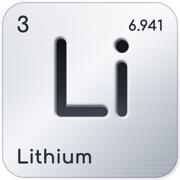
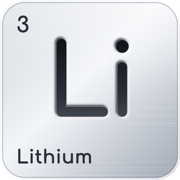
Add files via upload

Changed region(s): [[0.6944, 0.0833, 0.9167, 0.1944]]

diff --git a/index.html b/index.html
@@ -175,7 +175,7 @@ footer a:hover{text-decoration:underline}
 
 <header class="nav">
   <div class="wrap">
-    <a class="brand" href="#top"><svg class="mark" viewBox="0 0 200 200" aria-hidden="true"><defs><linearGradient id="lmbg" x1="0" y1="0" x2="1" y2="1"><stop offset="0" stop-color="#c9ced6"/><stop offset=".45" stop-color="#f3f5f8"/><stop offset=".55" stop-color="#e6e9ee"/><stop offset="1" stop-color="#9ea6b2"/></linearGradient><linearGradient id="lmink" x1="0" y1="0" x2="0" y2="1"><stop offset="0" stop-color="#0b0e13"/><stop offset=".6" stop-color="#2a2f38"/><stop offset="1" stop-color="#5a616c"/></linearGradient><linearGradient id="lmgl" x1="0" y1="0" x2="0" y2="1"><stop offset="0" stop-color="#fff" stop-opacity=".55"/><stop offset="1" stop-color="#fff" stop-opacity="0"/></linearGradient><clipPath id="lmcp"><rect width="200" height="200" rx="26"/></clipPath><filter id="lmbl" x="-20%" y="-20%" width="140%" height="140%"><feGaussianBlur stdDeviation="1.2"/></filter></defs><g clip-path="url(#lmcp)"><rect width="200" height="200" fill="url(#lmbg)"/><line x1="0" y1="1.0" x2="200" y2="1.0" stroke="#fff" stroke-opacity="0.020" stroke-width="0.40"/><line x1="0" y1="3.9" x2="200" y2="3.9" stroke="#fff" stroke-opacity="0.137" stroke-width="0.73"/><line x1="0" y1="6.8" x2="200" y2="6.8" stroke="#fff" stroke-opacity="0.087" stroke-width="1.07"/><line x1="0" y1="9.7" x2="200" y2="9.7" stroke="#fff" stroke-opacity="0.037" stroke-width="0.40"/><line x1="0" y1="12.6" x2="200" y2="12.6" stroke="#fff" stroke-opacity="0.153" stroke-width="0.73"/><line x1="0" y1="15.5" x2="200" y2="15.5" stroke="#fff" stroke-opacity="0.103" stroke-width="1.07"/><line x1="0" y1="18.4" x2="200" y2="18.4" stroke="#fff" stroke-opacity="0.053" stroke-width="0.40"/><line x1="0" y1="21.3" x2="200" y2="21.3" stroke="#fff" stroke-opacity="0.170" stroke-width="0.73"/><line x1="0" y1="24.2" x2="200" y2="24.2" stroke="#fff" stroke-opacity="0.120" stroke-width="1.07"/><line x1="0" y1="27.1" x2="200" y2="27.1" stroke="#fff" stroke-opacity="0.070" stroke-width="0.40"/><line x1="0" y1="30.0" x2="200" y2="30.0" stroke="#fff" stroke-opacity="0.020" stroke-width="0.73"/><line x1="0" y1="32.9" x2="200" y2="32.9" stroke="#fff" stroke-opacity="0.137" stroke-width="1.07"/><line x1="0" y1="35.8" x2="200" y2="35.8" stroke="#fff" stroke-opacity="0.087" stroke-width="0.40"/><line x1="0" y1="38.7" x2="200" y2="38.7" stroke="#fff" stroke-opacity="0.037" stroke-width="0.73"/><line x1="0" y1="41.6" x2="200" y2="41.6" stroke="#fff" stroke-opacity="0.153" stroke-width="1.07"/><line x1="0" y1="44.5" x2="200" y2="44.5" stroke="#fff" stroke-opacity="0.103" stroke-width="0.40"/><line x1="0" y1="47.4" x2="200" y2="47.4" stroke="#fff" stroke-opacity="0.053" stroke-width="0.73"/><line x1="0" y1="50.3" x2="200" y2="50.3" stroke="#fff" stroke-opacity="0.170" stroke-width="1.07"/><line x1="0" y1="53.2" x2="200" y2="53.2" stroke="#fff" stroke-opacity="0.120" stroke-width="0.40"/><line x1="0" y1="56.1" x2="200" y2="56.1" stroke="#fff" stroke-opacity="0.070" stroke-width="0.73"/><line x1="0" y1="59.0" x2="200" y2="59.0" stroke="#fff" stroke-opacity="0.020" stroke-width="1.07"/><line x1="0" y1="61.9" x2="200" y2="61.9" stroke="#fff" stroke-opacity="0.137" stroke-width="0.40"/><line x1="0" y1="64.8" x2="200" y2="64.8" stroke="#fff" stroke-opacity="0.087" stroke-width="0.73"/><line x1="0" y1="67.7" x2="200" y2="67.7" stroke="#fff" stroke-opacity="0.037" stroke-width="1.07"/><line x1="0" y1="70.6" x2="200" y2="70.6" stroke="#fff" stroke-opacity="0.153" stroke-width="0.40"/><line x1="0" y1="73.5" x2="200" y2="73.5" stroke="#fff" stroke-opacity="0.103" stroke-width="0.73"/><line x1="0" y1="76.4" x2="200" y2="76.4" stroke="#fff" stroke-opacity="0.053" stroke-width="1.07"/><line x1="0" y1="79.3" x2="200" y2="79.3" stroke="#fff" stroke-opacity="0.170" stroke-width="0.40"/><line x1="0" y1="82.2" x2="200" y2="82.2" stroke="#fff" stroke-opacity="0.120" stroke-width="0.73"/><line x1="0" y1="85.1" x2="200" y2="85.1" stroke="#fff" stroke-opacity="0.070" stroke-width="1.07"/><line x1="0" y1="88.0" x2="200" y2="88.0" stroke="#fff" stroke-opacity="0.020" stroke-width="0.40"/><line x1="0" y1="90.9" x2="200" y2="90.9" stroke="#fff" stroke-opacity="0.137" stroke-width="0.73"/><line x1="0" y1="93.8" x2="200" y2="93.8" stroke="#fff" stroke-opacity="0.087" stroke-width="1.07"/><line x1="0" y1="96.7" x2="200" y2="96.7" stroke="#fff" stroke-opacity="0.037" stroke-width="0.40"/><line x1="0" y1="99.6" x2="200" y2="99.6" stroke="#fff" stroke-opacity="0.153" stroke-width="0.73"/><line x1="0" y1="102.5" x2="200" y2="102.5" stroke="#fff" stroke-opacity="0.103" stroke-width="1.07"/><line x1="0" y1="105.4" x2="200" y2="105.4" stroke="#fff" stroke-opacity="0.053" stroke-width="0.40"/><line x1="0" y1="108.3" x2="200" y2="108.3" stroke="#fff" stroke-opacity="0.170" stroke-width="0.73"/><line x1="0" y1="111.2" x2="200" y2="111.2" stroke="#fff" stroke-opacity="0.120" stroke-width="1.07"/><line x1="0" y1="114.1" x2="200" y2="114.1" stroke="#fff" stroke-opacity="0.070" stroke-width="0.40"/><line x1="0" y1="117.0" x2="200" y2="117.0" stroke="#fff" stroke-opacity="0.020" stroke-width="0.73"/><line x1="0" y1="119.9" x2="200" y2="119.9" stroke="#fff" stroke-opacity="0.137" stroke-width="1.07"/><line x1="0" y1="122.8" x2="200" y2="122.8" stroke="#fff" stroke-opacity="0.087" stroke-width="0.40"/><line x1="0" y1="125.7" x2="200" y2="125.7" stroke="#fff" stroke-opacity="0.037" stroke-width="0.73"/><line x1="0" y1="128.6" x2="200" y2="128.6" stroke="#fff" stroke-opacity="0.153" stroke-width="1.07"/><line x1="0" y1="131.5" x2="200" y2="131.5" stroke="#fff" stroke-opacity="0.103" stroke-width="0.40"/><line x1="0" y1="134.4" x2="200" y2="134.4" stroke="#fff" stroke-opacity="0.053" stroke-width="0.73"/><line x1="0" y1="137.3" x2="200" y2="137.3" stroke="#fff" stroke-opacity="0.170" stroke-width="1.07"/><line x1="0" y1="140.2" x2="200" y2="140.2" stroke="#fff" stroke-opacity="0.120" stroke-width="0.40"/><line x1="0" y1="143.1" x2="200" y2="143.1" stroke="#fff" stroke-opacity="0.070" stroke-width="0.73"/><line x1="0" y1="146.0" x2="200" y2="146.0" stroke="#fff" stroke-opacity="0.020" stroke-width="1.07"/><line x1="0" y1="148.9" x2="200" y2="148.9" stroke="#fff" stroke-opacity="0.137" stroke-width="0.40"/><line x1="0" y1="151.8" x2="200" y2="151.8" stroke="#fff" stroke-opacity="0.087" stroke-width="0.73"/><line x1="0" y1="154.7" x2="200" y2="154.7" stroke="#fff" stroke-opacity="0.037" stroke-width="1.07"/><line x1="0" y1="157.6" x2="200" y2="157.6" stroke="#fff" stroke-opacity="0.153" stroke-width="0.40"/><line x1="0" y1="160.5" x2="200" y2="160.5" stroke="#fff" stroke-opacity="0.103" stroke-width="0.73"/><line x1="0" y1="163.4" x2="200" y2="163.4" stroke="#fff" stroke-opacity="0.053" stroke-width="1.07"/><line x1="0" y1="166.3" x2="200" y2="166.3" stroke="#fff" stroke-opacity="0.170" stroke-width="0.40"/><line x1="0" y1="169.2" x2="200" y2="169.2" stroke="#fff" stroke-opacity="0.120" stroke-width="0.73"/><line x1="0" y1="172.1" x2="200" y2="172.1" stroke="#fff" stroke-opacity="0.070" stroke-width="1.07"/><line x1="0" y1="175.0" x2="200" y2="175.0" stroke="#fff" stroke-opacity="0.020" stroke-width="0.40"/><line x1="0" y1="177.9" x2="200" y2="177.9" stroke="#fff" stroke-opacity="0.137" stroke-width="0.73"/><line x1="0" y1="180.8" x2="200" y2="180.8" stroke="#fff" stroke-opacity="0.087" stroke-width="1.07"/><line x1="0" y1="183.7" x2="200" y2="183.7" stroke="#fff" stroke-opacity="0.037" stroke-width="0.40"/><line x1="0" y1="186.6" x2="200" y2="186.6" stroke="#fff" stroke-opacity="0.153" stroke-width="0.73"/><line x1="0" y1="189.5" x2="200" y2="189.5" stroke="#fff" stroke-opacity="0.103" stroke-width="1.07"/><line x1="0" y1="192.4" x2="200" y2="192.4" stroke="#fff" stroke-opacity="0.053" stroke-width="0.40"/><line x1="0" y1="195.3" x2="200" y2="195.3" stroke="#fff" stroke-opacity="0.170" stroke-width="0.73"/><line x1="0" y1="198.2" x2="200" y2="198.2" stroke="#fff" stroke-opacity="0.120" stroke-width="1.07"/><line x1="0" y1="201.1" x2="200" y2="201.1" stroke="#fff" stroke-opacity="0.070" stroke-width="0.40"/><rect width="200" height="100" fill="url(#lmgl)"/></g><rect x="1" y="1" width="198" height="198" rx="26" fill="none" stroke="#fff" stroke-opacity=".7" stroke-width="2"/><rect x="2.5" y="2.5" width="195" height="195" rx="25" fill="none" stroke="#7d8591" stroke-opacity=".5" stroke-width="1"/><g font-family="Comfortaa,sans-serif" font-weight="700"><text x="100" y="130" text-anchor="middle" font-size="112" letter-spacing="-4" fill="#fff" fill-opacity=".85" transform="translate(1.6,1.8)" filter="url(#lmbl)">Li</text><text x="100" y="130" text-anchor="middle" font-size="112" letter-spacing="-4" fill="#1a1e26" transform="translate(-1.2,-1.4)" filter="url(#lmbl)">Li</text><text x="100" y="130" text-anchor="middle" font-size="112" letter-spacing="-4" fill="url(#lmink)">Li</text><text x="100" y="130" text-anchor="middle" font-size="112" letter-spacing="-4" fill="none" stroke="#fff" stroke-opacity=".35" stroke-width=".8">Li</text><text x="16" y="38" font-size="30" fill="#2a2f38">3</text><text x="184" y="35" text-anchor="end" font-size="20" letter-spacing=".3" fill="#2a2f38">6.941</text><text x="16" y="184" font-size="26" letter-spacing=".2" fill="#2a2f38">Lithium</text></g></svg><span class="bt"><b>Li Lab</b><small>UCSF</small></span></a>
+    <a class="brand" href="#top"><svg class="mark" viewBox="0 0 200 200" aria-hidden="true"><defs><linearGradient id="lmbg" x1="0" y1="0" x2="1" y2="1"><stop offset="0" stop-color="#c9ced6"/><stop offset=".45" stop-color="#f3f5f8"/><stop offset=".55" stop-color="#e6e9ee"/><stop offset="1" stop-color="#9ea6b2"/></linearGradient><linearGradient id="lmink" x1="0" y1="0" x2="0" y2="1"><stop offset="0" stop-color="#0b0e13"/><stop offset=".6" stop-color="#2a2f38"/><stop offset="1" stop-color="#5a616c"/></linearGradient><linearGradient id="lmgl" x1="0" y1="0" x2="0" y2="1"><stop offset="0" stop-color="#fff" stop-opacity=".55"/><stop offset="1" stop-color="#fff" stop-opacity="0"/></linearGradient><clipPath id="lmcp"><rect width="200" height="200" rx="26"/></clipPath><filter id="lmbl" x="-20%" y="-20%" width="140%" height="140%"><feGaussianBlur stdDeviation="1.2"/></filter></defs><g clip-path="url(#lmcp)"><rect width="200" height="200" fill="url(#lmbg)"/><line x1="0" y1="1.0" x2="200" y2="1.0" stroke="#fff" stroke-opacity="0.020" stroke-width="0.40"/><line x1="0" y1="3.9" x2="200" y2="3.9" stroke="#fff" stroke-opacity="0.137" stroke-width="0.73"/><line x1="0" y1="6.8" x2="200" y2="6.8" stroke="#fff" stroke-opacity="0.087" stroke-width="1.07"/><line x1="0" y1="9.7" x2="200" y2="9.7" stroke="#fff" stroke-opacity="0.037" stroke-width="0.40"/><line x1="0" y1="12.6" x2="200" y2="12.6" stroke="#fff" stroke-opacity="0.153" stroke-width="0.73"/><line x1="0" y1="15.5" x2="200" y2="15.5" stroke="#fff" stroke-opacity="0.103" stroke-width="1.07"/><line x1="0" y1="18.4" x2="200" y2="18.4" stroke="#fff" stroke-opacity="0.053" stroke-width="0.40"/><line x1="0" y1="21.3" x2="200" y2="21.3" stroke="#fff" stroke-opacity="0.170" stroke-width="0.73"/><line x1="0" y1="24.2" x2="200" y2="24.2" stroke="#fff" stroke-opacity="0.120" stroke-width="1.07"/><line x1="0" y1="27.1" x2="200" y2="27.1" stroke="#fff" stroke-opacity="0.070" stroke-width="0.40"/><line x1="0" y1="30.0" x2="200" y2="30.0" stroke="#fff" stroke-opacity="0.020" stroke-width="0.73"/><line x1="0" y1="32.9" x2="200" y2="32.9" stroke="#fff" stroke-opacity="0.137" stroke-width="1.07"/><line x1="0" y1="35.8" x2="200" y2="35.8" stroke="#fff" stroke-opacity="0.087" stroke-width="0.40"/><line x1="0" y1="38.7" x2="200" y2="38.7" stroke="#fff" stroke-opacity="0.037" stroke-width="0.73"/><line x1="0" y1="41.6" x2="200" y2="41.6" stroke="#fff" stroke-opacity="0.153" stroke-width="1.07"/><line x1="0" y1="44.5" x2="200" y2="44.5" stroke="#fff" stroke-opacity="0.103" stroke-width="0.40"/><line x1="0" y1="47.4" x2="200" y2="47.4" stroke="#fff" stroke-opacity="0.053" stroke-width="0.73"/><line x1="0" y1="50.3" x2="200" y2="50.3" stroke="#fff" stroke-opacity="0.170" stroke-width="1.07"/><line x1="0" y1="53.2" x2="200" y2="53.2" stroke="#fff" stroke-opacity="0.120" stroke-width="0.40"/><line x1="0" y1="56.1" x2="200" y2="56.1" stroke="#fff" stroke-opacity="0.070" stroke-width="0.73"/><line x1="0" y1="59.0" x2="200" y2="59.0" stroke="#fff" stroke-opacity="0.020" stroke-width="1.07"/><line x1="0" y1="61.9" x2="200" y2="61.9" stroke="#fff" stroke-opacity="0.137" stroke-width="0.40"/><line x1="0" y1="64.8" x2="200" y2="64.8" stroke="#fff" stroke-opacity="0.087" stroke-width="0.73"/><line x1="0" y1="67.7" x2="200" y2="67.7" stroke="#fff" stroke-opacity="0.037" stroke-width="1.07"/><line x1="0" y1="70.6" x2="200" y2="70.6" stroke="#fff" stroke-opacity="0.153" stroke-width="0.40"/><line x1="0" y1="73.5" x2="200" y2="73.5" stroke="#fff" stroke-opacity="0.103" stroke-width="0.73"/><line x1="0" y1="76.4" x2="200" y2="76.4" stroke="#fff" stroke-opacity="0.053" stroke-width="1.07"/><line x1="0" y1="79.3" x2="200" y2="79.3" stroke="#fff" stroke-opacity="0.170" stroke-width="0.40"/><line x1="0" y1="82.2" x2="200" y2="82.2" stroke="#fff" stroke-opacity="0.120" stroke-width="0.73"/><line x1="0" y1="85.1" x2="200" y2="85.1" stroke="#fff" stroke-opacity="0.070" stroke-width="1.07"/><line x1="0" y1="88.0" x2="200" y2="88.0" stroke="#fff" stroke-opacity="0.020" stroke-width="0.40"/><line x1="0" y1="90.9" x2="200" y2="90.9" stroke="#fff" stroke-opacity="0.137" stroke-width="0.73"/><line x1="0" y1="93.8" x2="200" y2="93.8" stroke="#fff" stroke-opacity="0.087" stroke-width="1.07"/><line x1="0" y1="96.7" x2="200" y2="96.7" stroke="#fff" stroke-opacity="0.037" stroke-width="0.40"/><line x1="0" y1="99.6" x2="200" y2="99.6" stroke="#fff" stroke-opacity="0.153" stroke-width="0.73"/><line x1="0" y1="102.5" x2="200" y2="102.5" stroke="#fff" stroke-opacity="0.103" stroke-width="1.07"/><line x1="0" y1="105.4" x2="200" y2="105.4" stroke="#fff" stroke-opacity="0.053" stroke-width="0.40"/><line x1="0" y1="108.3" x2="200" y2="108.3" stroke="#fff" stroke-opacity="0.170" stroke-width="0.73"/><line x1="0" y1="111.2" x2="200" y2="111.2" stroke="#fff" stroke-opacity="0.120" stroke-width="1.07"/><line x1="0" y1="114.1" x2="200" y2="114.1" stroke="#fff" stroke-opacity="0.070" stroke-width="0.40"/><line x1="0" y1="117.0" x2="200" y2="117.0" stroke="#fff" stroke-opacity="0.020" stroke-width="0.73"/><line x1="0" y1="119.9" x2="200" y2="119.9" stroke="#fff" stroke-opacity="0.137" stroke-width="1.07"/><line x1="0" y1="122.8" x2="200" y2="122.8" stroke="#fff" stroke-opacity="0.087" stroke-width="0.40"/><line x1="0" y1="125.7" x2="200" y2="125.7" stroke="#fff" stroke-opacity="0.037" stroke-width="0.73"/><line x1="0" y1="128.6" x2="200" y2="128.6" stroke="#fff" stroke-opacity="0.153" stroke-width="1.07"/><line x1="0" y1="131.5" x2="200" y2="131.5" stroke="#fff" stroke-opacity="0.103" stroke-width="0.40"/><line x1="0" y1="134.4" x2="200" y2="134.4" stroke="#fff" stroke-opacity="0.053" stroke-width="0.73"/><line x1="0" y1="137.3" x2="200" y2="137.3" stroke="#fff" stroke-opacity="0.170" stroke-width="1.07"/><line x1="0" y1="140.2" x2="200" y2="140.2" stroke="#fff" stroke-opacity="0.120" stroke-width="0.40"/><line x1="0" y1="143.1" x2="200" y2="143.1" stroke="#fff" stroke-opacity="0.070" stroke-width="0.73"/><line x1="0" y1="146.0" x2="200" y2="146.0" stroke="#fff" stroke-opacity="0.020" stroke-width="1.07"/><line x1="0" y1="148.9" x2="200" y2="148.9" stroke="#fff" stroke-opacity="0.137" stroke-width="0.40"/><line x1="0" y1="151.8" x2="200" y2="151.8" stroke="#fff" stroke-opacity="0.087" stroke-width="0.73"/><line x1="0" y1="154.7" x2="200" y2="154.7" stroke="#fff" stroke-opacity="0.037" stroke-width="1.07"/><line x1="0" y1="157.6" x2="200" y2="157.6" stroke="#fff" stroke-opacity="0.153" stroke-width="0.40"/><line x1="0" y1="160.5" x2="200" y2="160.5" stroke="#fff" stroke-opacity="0.103" stroke-width="0.73"/><line x1="0" y1="163.4" x2="200" y2="163.4" stroke="#fff" stroke-opacity="0.053" stroke-width="1.07"/><line x1="0" y1="166.3" x2="200" y2="166.3" stroke="#fff" stroke-opacity="0.170" stroke-width="0.40"/><line x1="0" y1="169.2" x2="200" y2="169.2" stroke="#fff" stroke-opacity="0.120" stroke-width="0.73"/><line x1="0" y1="172.1" x2="200" y2="172.1" stroke="#fff" stroke-opacity="0.070" stroke-width="1.07"/><line x1="0" y1="175.0" x2="200" y2="175.0" stroke="#fff" stroke-opacity="0.020" stroke-width="0.40"/><line x1="0" y1="177.9" x2="200" y2="177.9" stroke="#fff" stroke-opacity="0.137" stroke-width="0.73"/><line x1="0" y1="180.8" x2="200" y2="180.8" stroke="#fff" stroke-opacity="0.087" stroke-width="1.07"/><line x1="0" y1="183.7" x2="200" y2="183.7" stroke="#fff" stroke-opacity="0.037" stroke-width="0.40"/><line x1="0" y1="186.6" x2="200" y2="186.6" stroke="#fff" stroke-opacity="0.153" stroke-width="0.73"/><line x1="0" y1="189.5" x2="200" y2="189.5" stroke="#fff" stroke-opacity="0.103" stroke-width="1.07"/><line x1="0" y1="192.4" x2="200" y2="192.4" stroke="#fff" stroke-opacity="0.053" stroke-width="0.40"/><line x1="0" y1="195.3" x2="200" y2="195.3" stroke="#fff" stroke-opacity="0.170" stroke-width="0.73"/><line x1="0" y1="198.2" x2="200" y2="198.2" stroke="#fff" stroke-opacity="0.120" stroke-width="1.07"/><line x1="0" y1="201.1" x2="200" y2="201.1" stroke="#fff" stroke-opacity="0.070" stroke-width="0.40"/><rect width="200" height="100" fill="url(#lmgl)"/></g><rect x="1" y="1" width="198" height="198" rx="26" fill="none" stroke="#fff" stroke-opacity=".7" stroke-width="2"/><rect x="2.5" y="2.5" width="195" height="195" rx="25" fill="none" stroke="#7d8591" stroke-opacity=".5" stroke-width="1"/><g font-family="Comfortaa,sans-serif" font-weight="700"><text x="100" y="130" text-anchor="middle" font-size="112" letter-spacing="-4" fill="#fff" fill-opacity=".85" transform="translate(1.6,1.8)" filter="url(#lmbl)">Li</text><text x="100" y="130" text-anchor="middle" font-size="112" letter-spacing="-4" fill="#1a1e26" transform="translate(-1.2,-1.4)" filter="url(#lmbl)">Li</text><text x="100" y="130" text-anchor="middle" font-size="112" letter-spacing="-4" fill="url(#lmink)">Li</text><text x="100" y="130" text-anchor="middle" font-size="112" letter-spacing="-4" fill="none" stroke="#fff" stroke-opacity=".35" stroke-width=".8">Li</text><text x="16" y="38" font-size="30" fill="#2a2f38">3</text><text x="16" y="184" font-size="26" letter-spacing=".2" fill="#2a2f38">Lithium</text></g></svg><span class="bt"><b>Li Lab</b><small>UCSF</small></span></a>
     <nav class="links">
       <a href="#research">Research</a>
       <a href="#atlas">Atlas</a>
